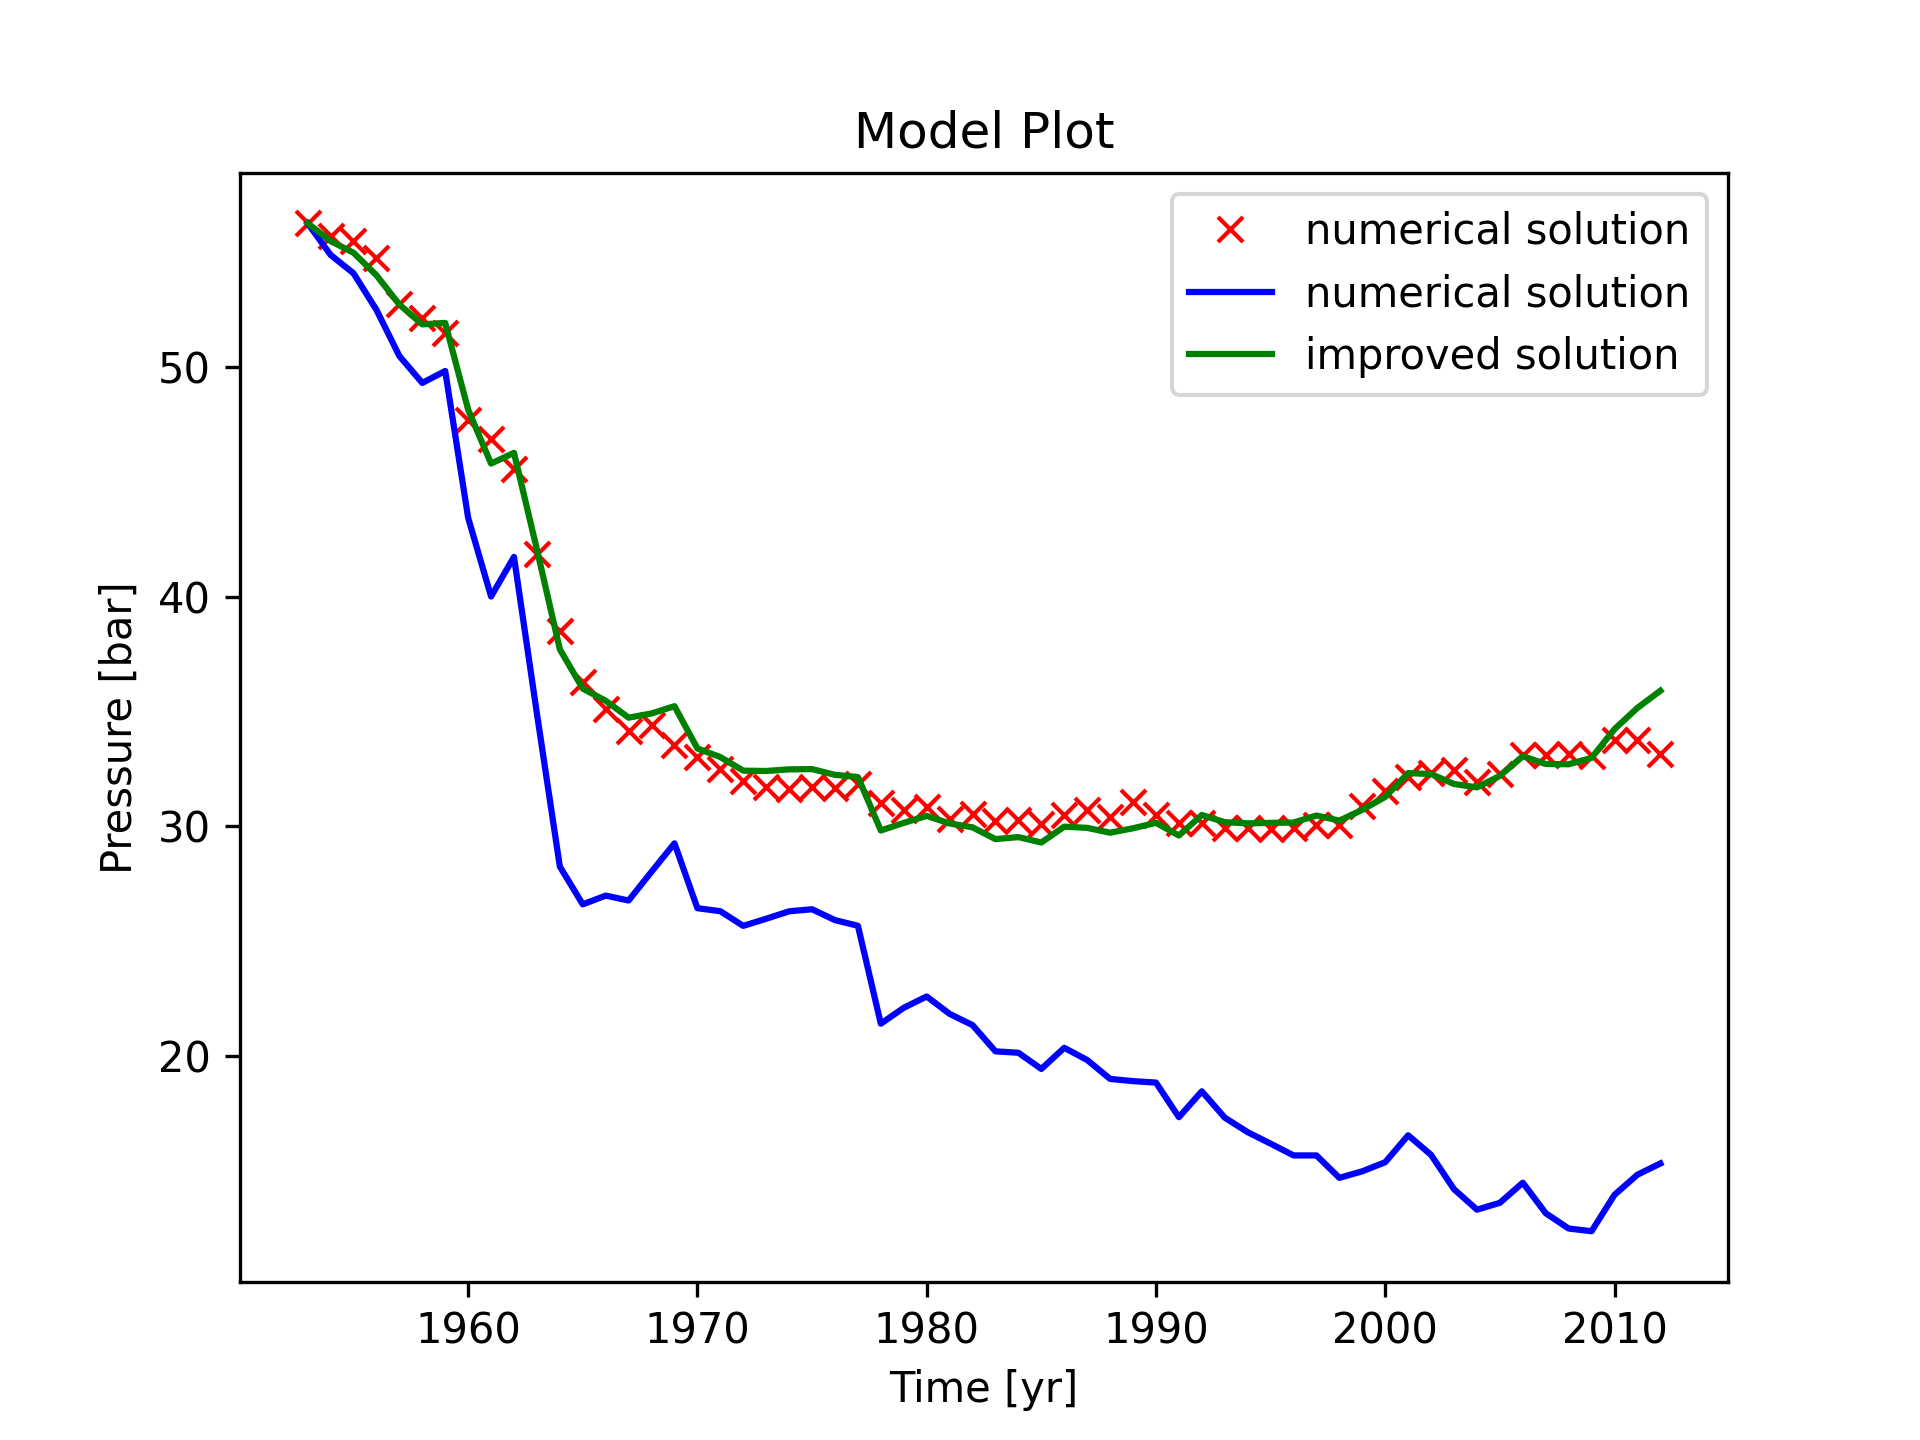
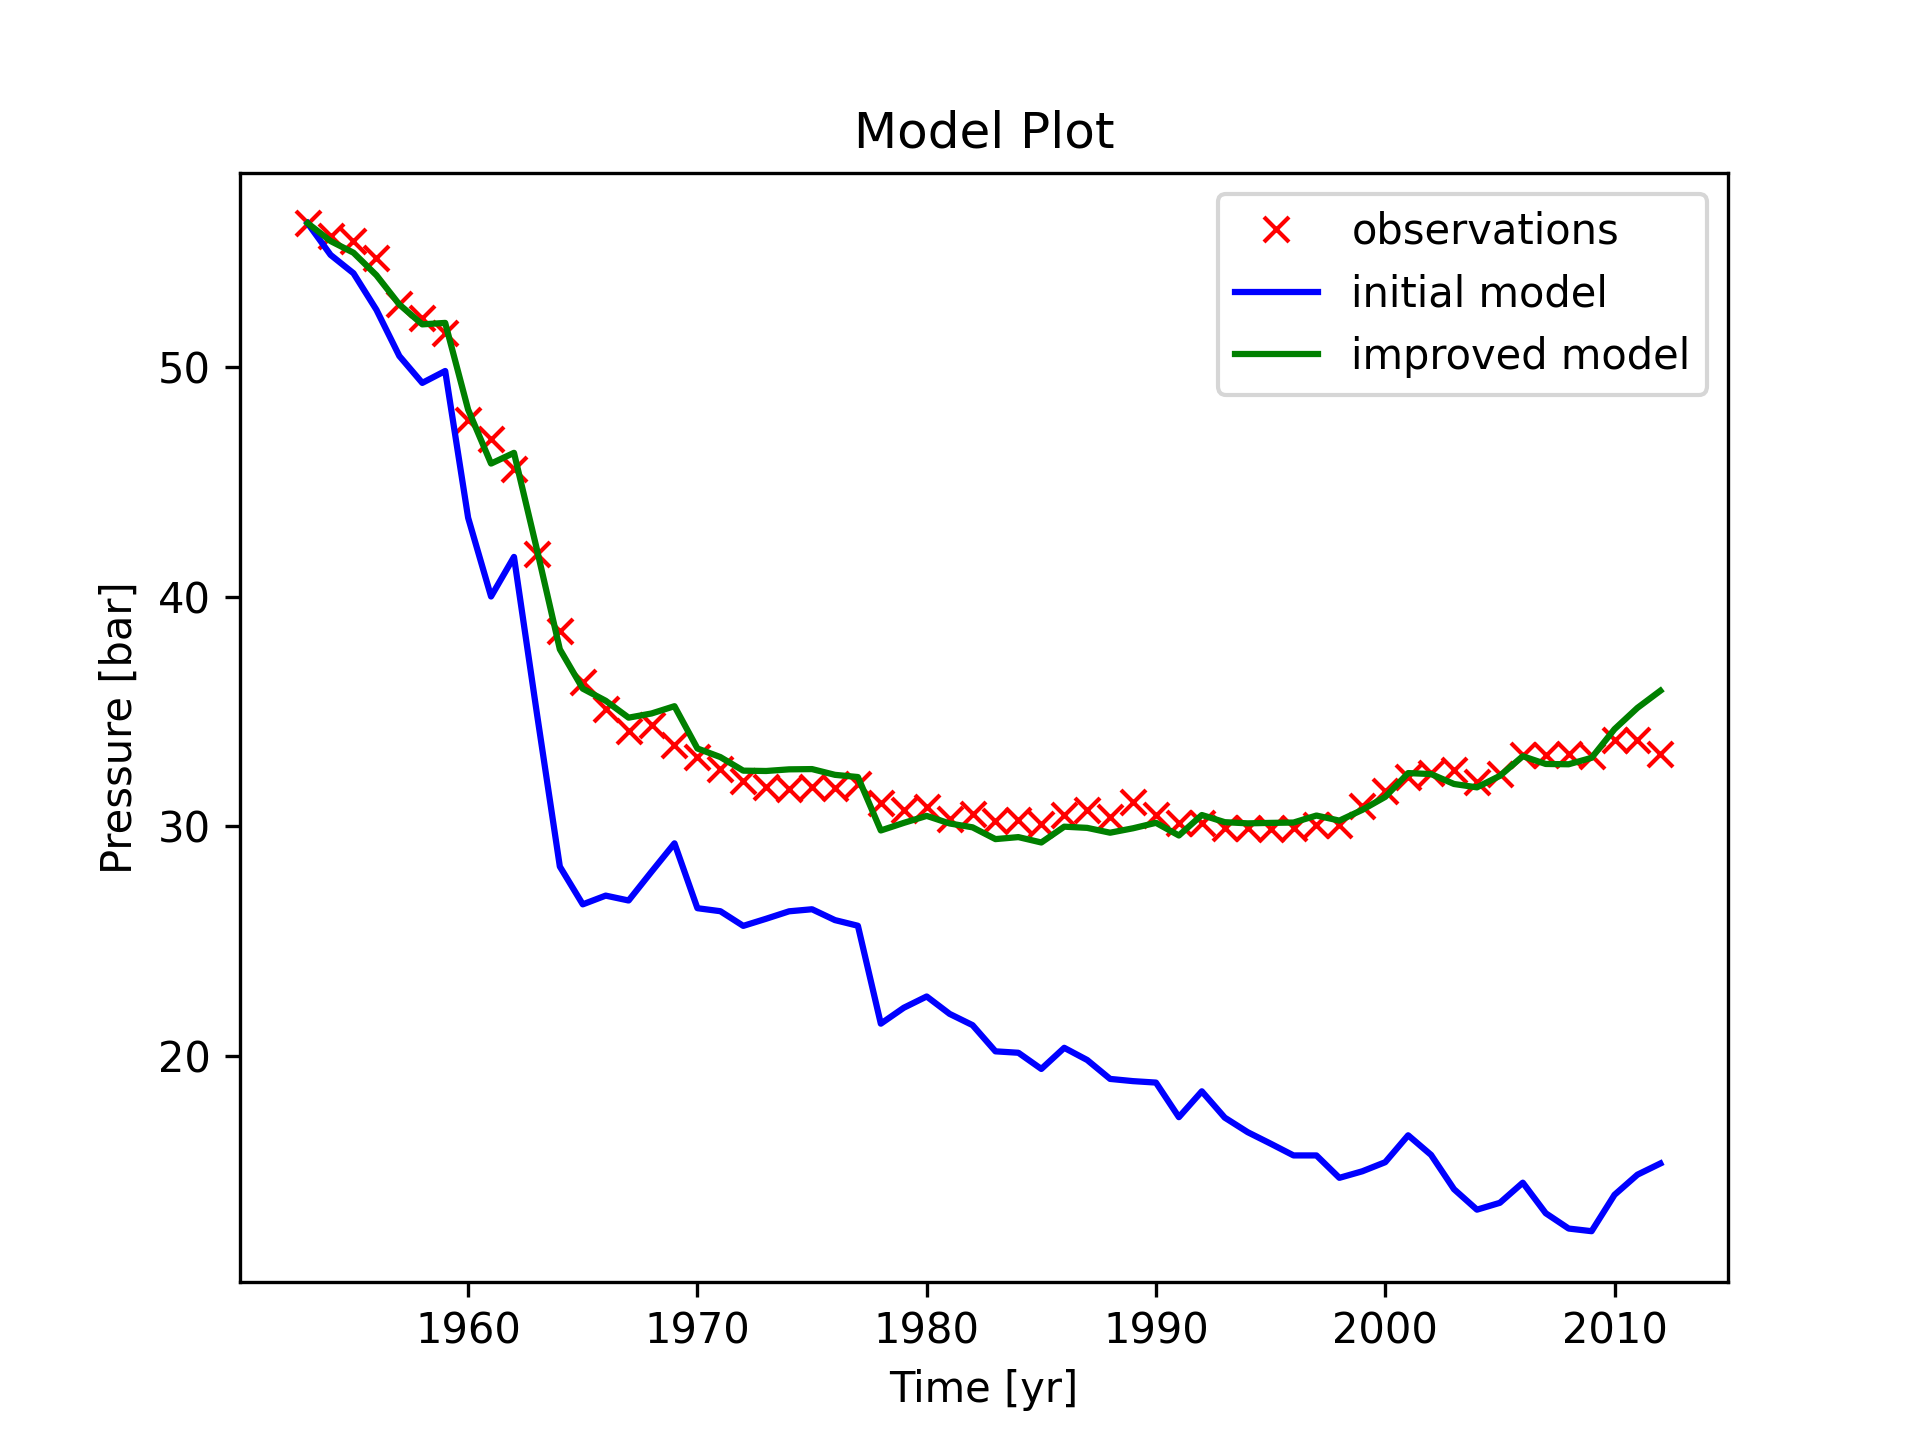
Motify the function plot_pressure_model done by Aryan

Changed region(s): [[0.5938, 0.125, 0.875, 0.2812]]

diff --git a/modelG15.py b/modelG15.py
@@ -178,19 +178,20 @@ def plot_pressure_model():
     c = 0.015
     pars = [a, b, c]
     t_range = np.arange(t0, t1 + dt, dt)
-
     q = interpolate_mass_extraction(t_range)
-    dqdt = np.divide(np.diff(q), np.diff(t_range))
-    dqdt = np.append(dqdt, dqdt[-1])
+    dqdt = q.copy()
+
+    for i in range(len(q)-1):
+        dqdt[i] = (q[i+1] - q[i])/dt
 
     t_data, p_data = load_pressure_data()
-    plt.plot(t_data, p_data, "x", color="red", label="numerical solution")
+    plt.plot(t_data, p_data, "x", color="red", label="observations")
 
     t, p = solve_pressure_ode(pressure_ode, t0, t1, dt, p0, q, dqdt, pars)
-    plt.plot(t, p, "-", color="blue", label="numerical solution")
+    plt.plot(t, p, "-", color="blue", label="initial model")
 
 
-    def Tmodel(t, *pars):
+    def Pmodel(t, *pars):
         t0 = 1953
         t1 = 2012
         p0 = 56.26
@@ -200,7 +201,7 @@ def plot_pressure_model():
         return Tm
 
     theta0 = [a, b, c]
-    constants = curve_fit(Tmodel, t_data, p_data, theta0)
+    constants = curve_fit(Pmodel, t_data, p_data, theta0)
     a_const = constants[0][0]
     b_const = constants[0][1]
     c_const = constants[0][2]
@@ -210,7 +211,7 @@ def plot_pressure_model():
     pars = [a_const, b_const, c_const]
 
     t, p = solve_pressure_ode(pressure_ode, t0, t1, dt, p0, q, dqdt, pars)
-    plt.plot(t, p, "-", color="green", label="improved solution")
+    plt.plot(t, p, "-", color="green", label="improved model")
 
     plt.xlabel('Time [yr]')
     plt.ylabel('Pressure [bar]')
@@ -222,6 +223,10 @@ def plot_pressure_model():
         plt.show()
     else:
         plt.savefig('model_plot', dpi=300)
+        plt.show()
+
+    return a_const, b_const, c_const
+
 
 def forward_prediction(qf):
     '''Return heat source parameter q for kettle experiment.
@@ -254,8 +259,9 @@ def forward_prediction(qf):
     for i in range(len(qf)):
         q1 = qf[i]*np.ones(len(t_future))
         q = np.concatenate((q0,q1))
-        dqdt = np.divide(np.diff(q), np.diff(t))
-        dqdt = np.append(dqdt, dqdt[-1])
+        dqdt = q.copy()
+        for j in range(len(q)-1):
+            dqdt[j] = (q[j+1] - q[j])/dt
         
         t, pres = solve_pressure_ode(pressure_ode, t0, 2029.5, dt, p0, q, dqdt, pars)
 
